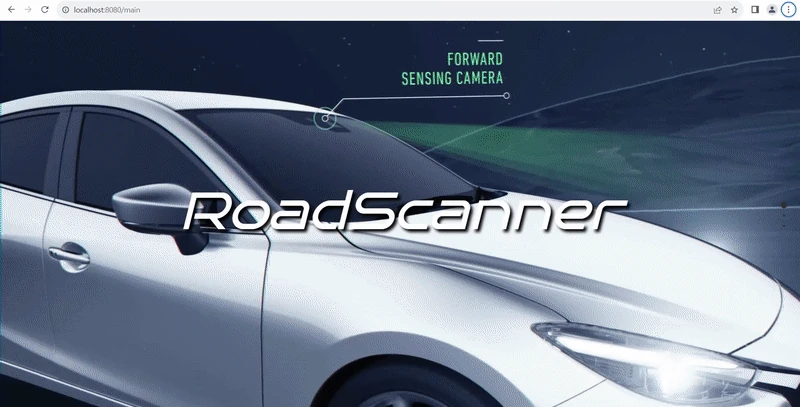
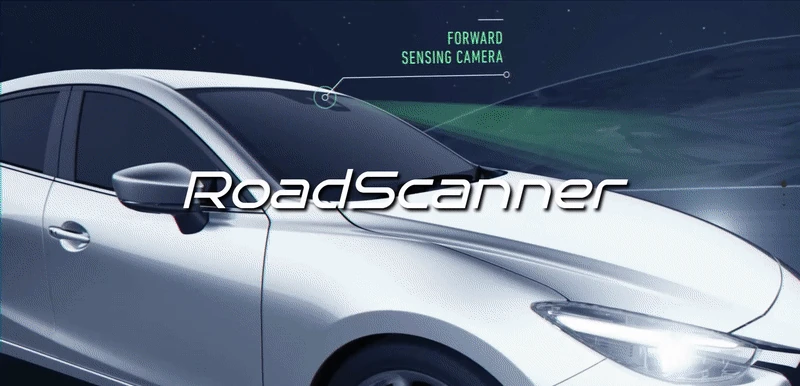
수정: RoadScanner 대표 이미지 주소 표시줄 제거

diff --git a/docs/roadscanner-media-production-report.md b/docs/roadscanner-media-production-report.md
@@ -8,7 +8,7 @@
 
 ## 1. 승인된 최종 이미지
 
-Owner가 갤러리 검토본 세 장과 RoadScanner GIF 첫 프레임을 production 변환 대상으로 승인했다. 최초 승인 Cover였던 context crop JPEG는 이후 Owner 요청에 따라 GIF 첫 프레임으로 교체했다.
+Owner가 갤러리 검토본 세 장과 RoadScanner GIF 첫 프레임을 production 변환 대상으로 승인했다. 최초 승인 Cover였던 context crop JPEG는 이후 Owner 요청에 따라 GIF 첫 프레임으로 교체했고, 후속 요청으로 첫 프레임 상단의 브라우저 주소 표시줄 21px만 제거했다.
 
 1. Cover: `263704183-d9e78da4-732d-4f06-8a29-d00c654763cd.gif` 첫 프레임
 2. Gallery 1: `videocapture-20231108-170610-redacted-review.jpg`
@@ -36,24 +36,24 @@ Owner가 갤러리 검토본 세 장과 RoadScanner GIF 첫 프레임을 product
 | Gallery 2 | `docs/media-review/roadscanner/revision-2/redacted-previews/videocapture-20231108-170658-redacted-review.jpg` | `public/images/projects/roadscanner/qna-list.webp`            |
 | Gallery 3 | `docs/media-review/roadscanner/revision-2/redacted-previews/videocapture-20231108-170206-redacted-review.jpg` | `public/images/projects/roadscanner/upload-entry.webp`        |
 
-새 crop, 확대, 추가 마스크와 색상 변경 없이 source dimensions와 비율을 유지했다. Cover는 GIF 첫 프레임만 정지 WebP로 인코딩했고 animation 자체는 public에 추가하지 않았다. Sharp 기본 동작으로 source metadata를 production WebP에 복사하지 않았다.
+Cover는 GIF 첫 프레임의 상단 21px 주소 표시줄만 Owner 승인 crop으로 제거해 800×386 정지 WebP로 인코딩했다. 그 밖의 확대, 추가 crop, 마스크와 색상 변경은 하지 않았고 animation 자체도 public에 추가하지 않았다. Sharp 기본 동작으로 source metadata를 production WebP에 복사하지 않았다.
 
 ## 4. 출력 metadata
 
 | 파일                       | Dimensions |     용량 | SHA-256                                                            |
 | -------------------------- | ---------- | -------: | ------------------------------------------------------------------ |
[5 lines of base64/hex data omitted]
 
-네 파일 모두 MIME `image/webp`, 비어 있지 않은 파일, 설정과 일치하는 dimensions로 확인했다. Cover WebP를 원본 크기로 열어 GIF 첫 프레임과 시각적으로 일치하는지 확인했다. 갤러리 WebP도 승인 검토본의 crop·불투명 마스크가 유지되고 추가 왜곡이 없는지 확인했다.
+네 파일 모두 MIME `image/webp`, 비어 있지 않은 파일, 설정과 일치하는 dimensions로 확인했다. Cover WebP를 원본 크기로 열어 주소 표시줄이 완전히 제거되고 나머지 GIF 첫 프레임이 유지되는지 확인했다. 갤러리 WebP도 승인 검토본의 crop·불투명 마스크가 유지되고 추가 왜곡이 없는지 확인했다.
 
 ## 5. Frontmatter 연결 결과
 
 `src/content/projects/roadscanner.md`에 다음을 연결했다.
 
-- Cover: `/images/projects/roadscanner/cover.webp`, `800×407`
+- Cover: `/images/projects/roadscanner/cover.webp`, `800×386`
 - Gallery 1: `/images/projects/roadscanner/feedback-statistics.webp`, `1920×964`
 - Gallery 2: `/images/projects/roadscanner/qna-list.webp`, `1920×964`
 - Gallery 3: `/images/projects/roadscanner/upload-entry.webp`, `1920×964`
@@ -68,7 +68,8 @@ Codex 인앱 브라우저의 실제 `window.innerWidth`를 각각 320, 375, 768,
 - 홈 project rail과 `/projects/` 카드에서 RoadScanner Draft Preview와 새 Cover가 표시됨
 - 개발 환경 상세 페이지에서 새 Cover와 Gallery 세 장이 지정 순서로 표시됨
 - 모든 조합에서 깨진 이미지 0, 빈 alt 0, document 가로 overflow 0
-- Cover의 실제 로드 dimensions는 800×407, Gallery는 각각 1920×964
+- Cover의 실제 로드 dimensions는 800×386, Gallery는 각각 1920×964
+- 주소 표시줄 crop 반영 후 320과 1440에서 홈·목록·상세 Cover를 다시 검수
 - 320과 1440에서 페이지 끝까지 스크롤해 지연 로딩 Gallery 세 장의 `complete`와 `naturalWidth`를 확인
 - Console error 0
 

diff --git a/src/content/projects/roadscanner.md b/src/content/projects/roadscanner.md
@@ -7,7 +7,7 @@ cover:
   src: /images/projects/roadscanner/cover.webp
   alt: 차량과 전방 감지 카메라 그래픽 위에 RoadScanner 로고가 표시된 시작 화면
   width: 800
-  height: 407
+  height: 386
 gallery:
   - src: /images/projects/roadscanner/feedback-statistics.webp
     alt: 사용자 피드백 통계를 막대그래프와 표로 보여 주는 화면